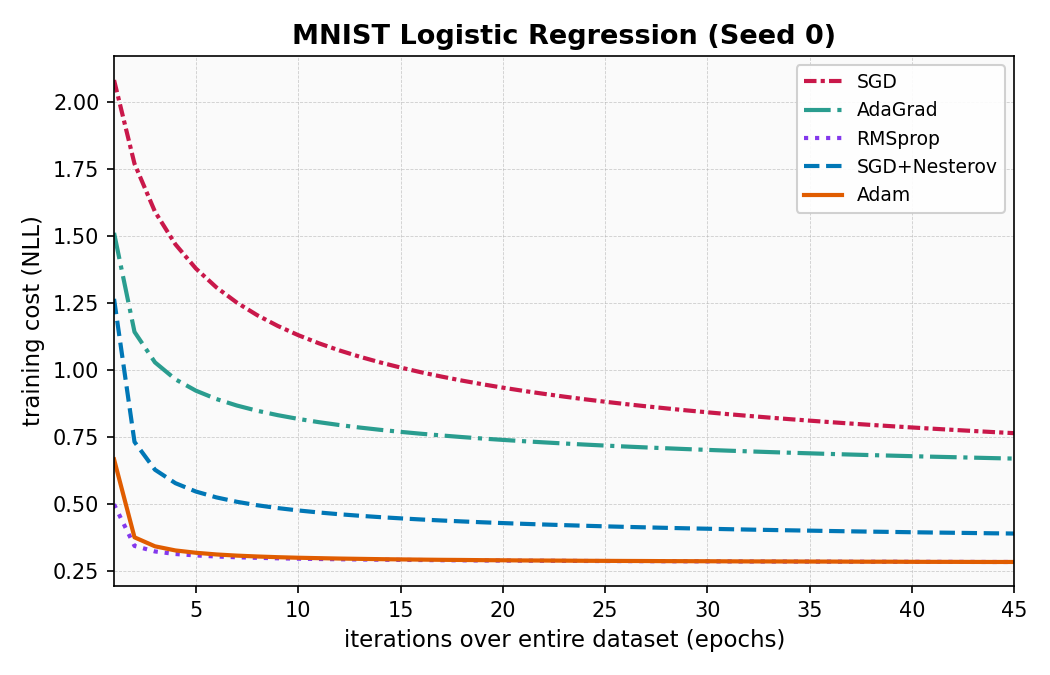
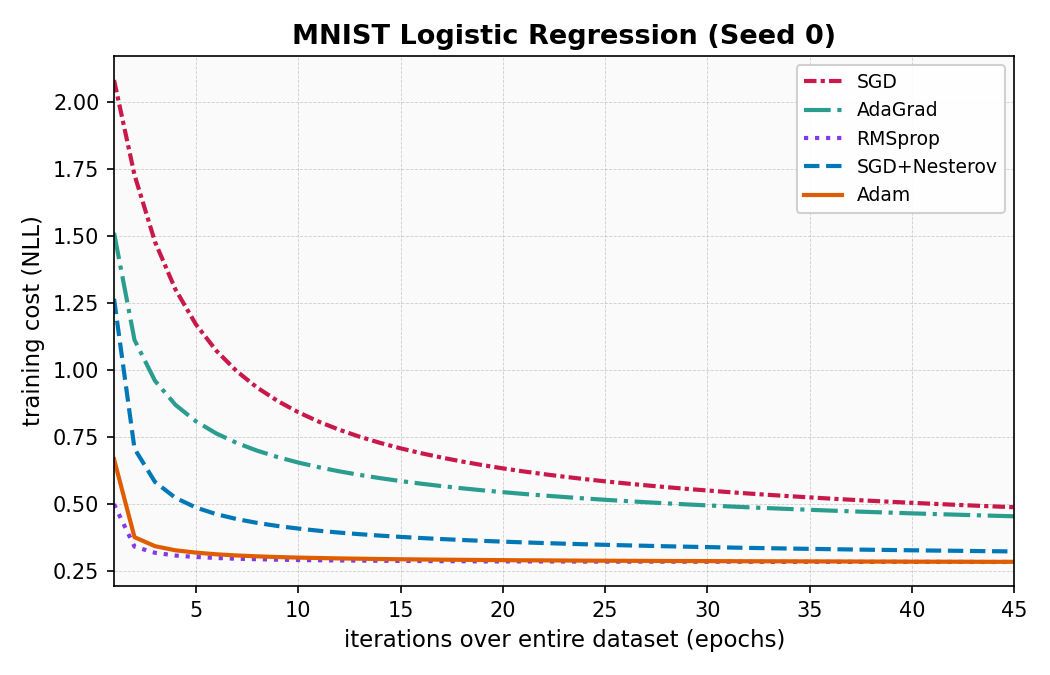
updated repo and results

diff --git a/src/ex1_logistic-regression.py b/src/ex1_logistic-regression.py
@@ -300,15 +300,13 @@ def run_trial(
 
     costs = []
     for epoch in range(1, num_epochs + 1):
-        # lr schedule: alpha_t = base_lr / sqrt(epoch)
-        epoch_lr = base_lr / math.sqrt(epoch)
-
-        # Update lr without rebuilding (preserves accumulator state)
+        # lr schedule: alpha_t = base_lr / sqrt(epoch) (Adam only)
         if isinstance(optimizer, AdamCustom):
+            epoch_lr = base_lr / math.sqrt(epoch)
             optimizer.set_lr(epoch_lr)
         else:
             for group in optimizer.param_groups:
-                group["lr"] = epoch_lr
+                group["lr"] = base_lr
 
         cost = train_epoch(model, loader, optimizer, l2_lambda, device)
         costs.append(cost)